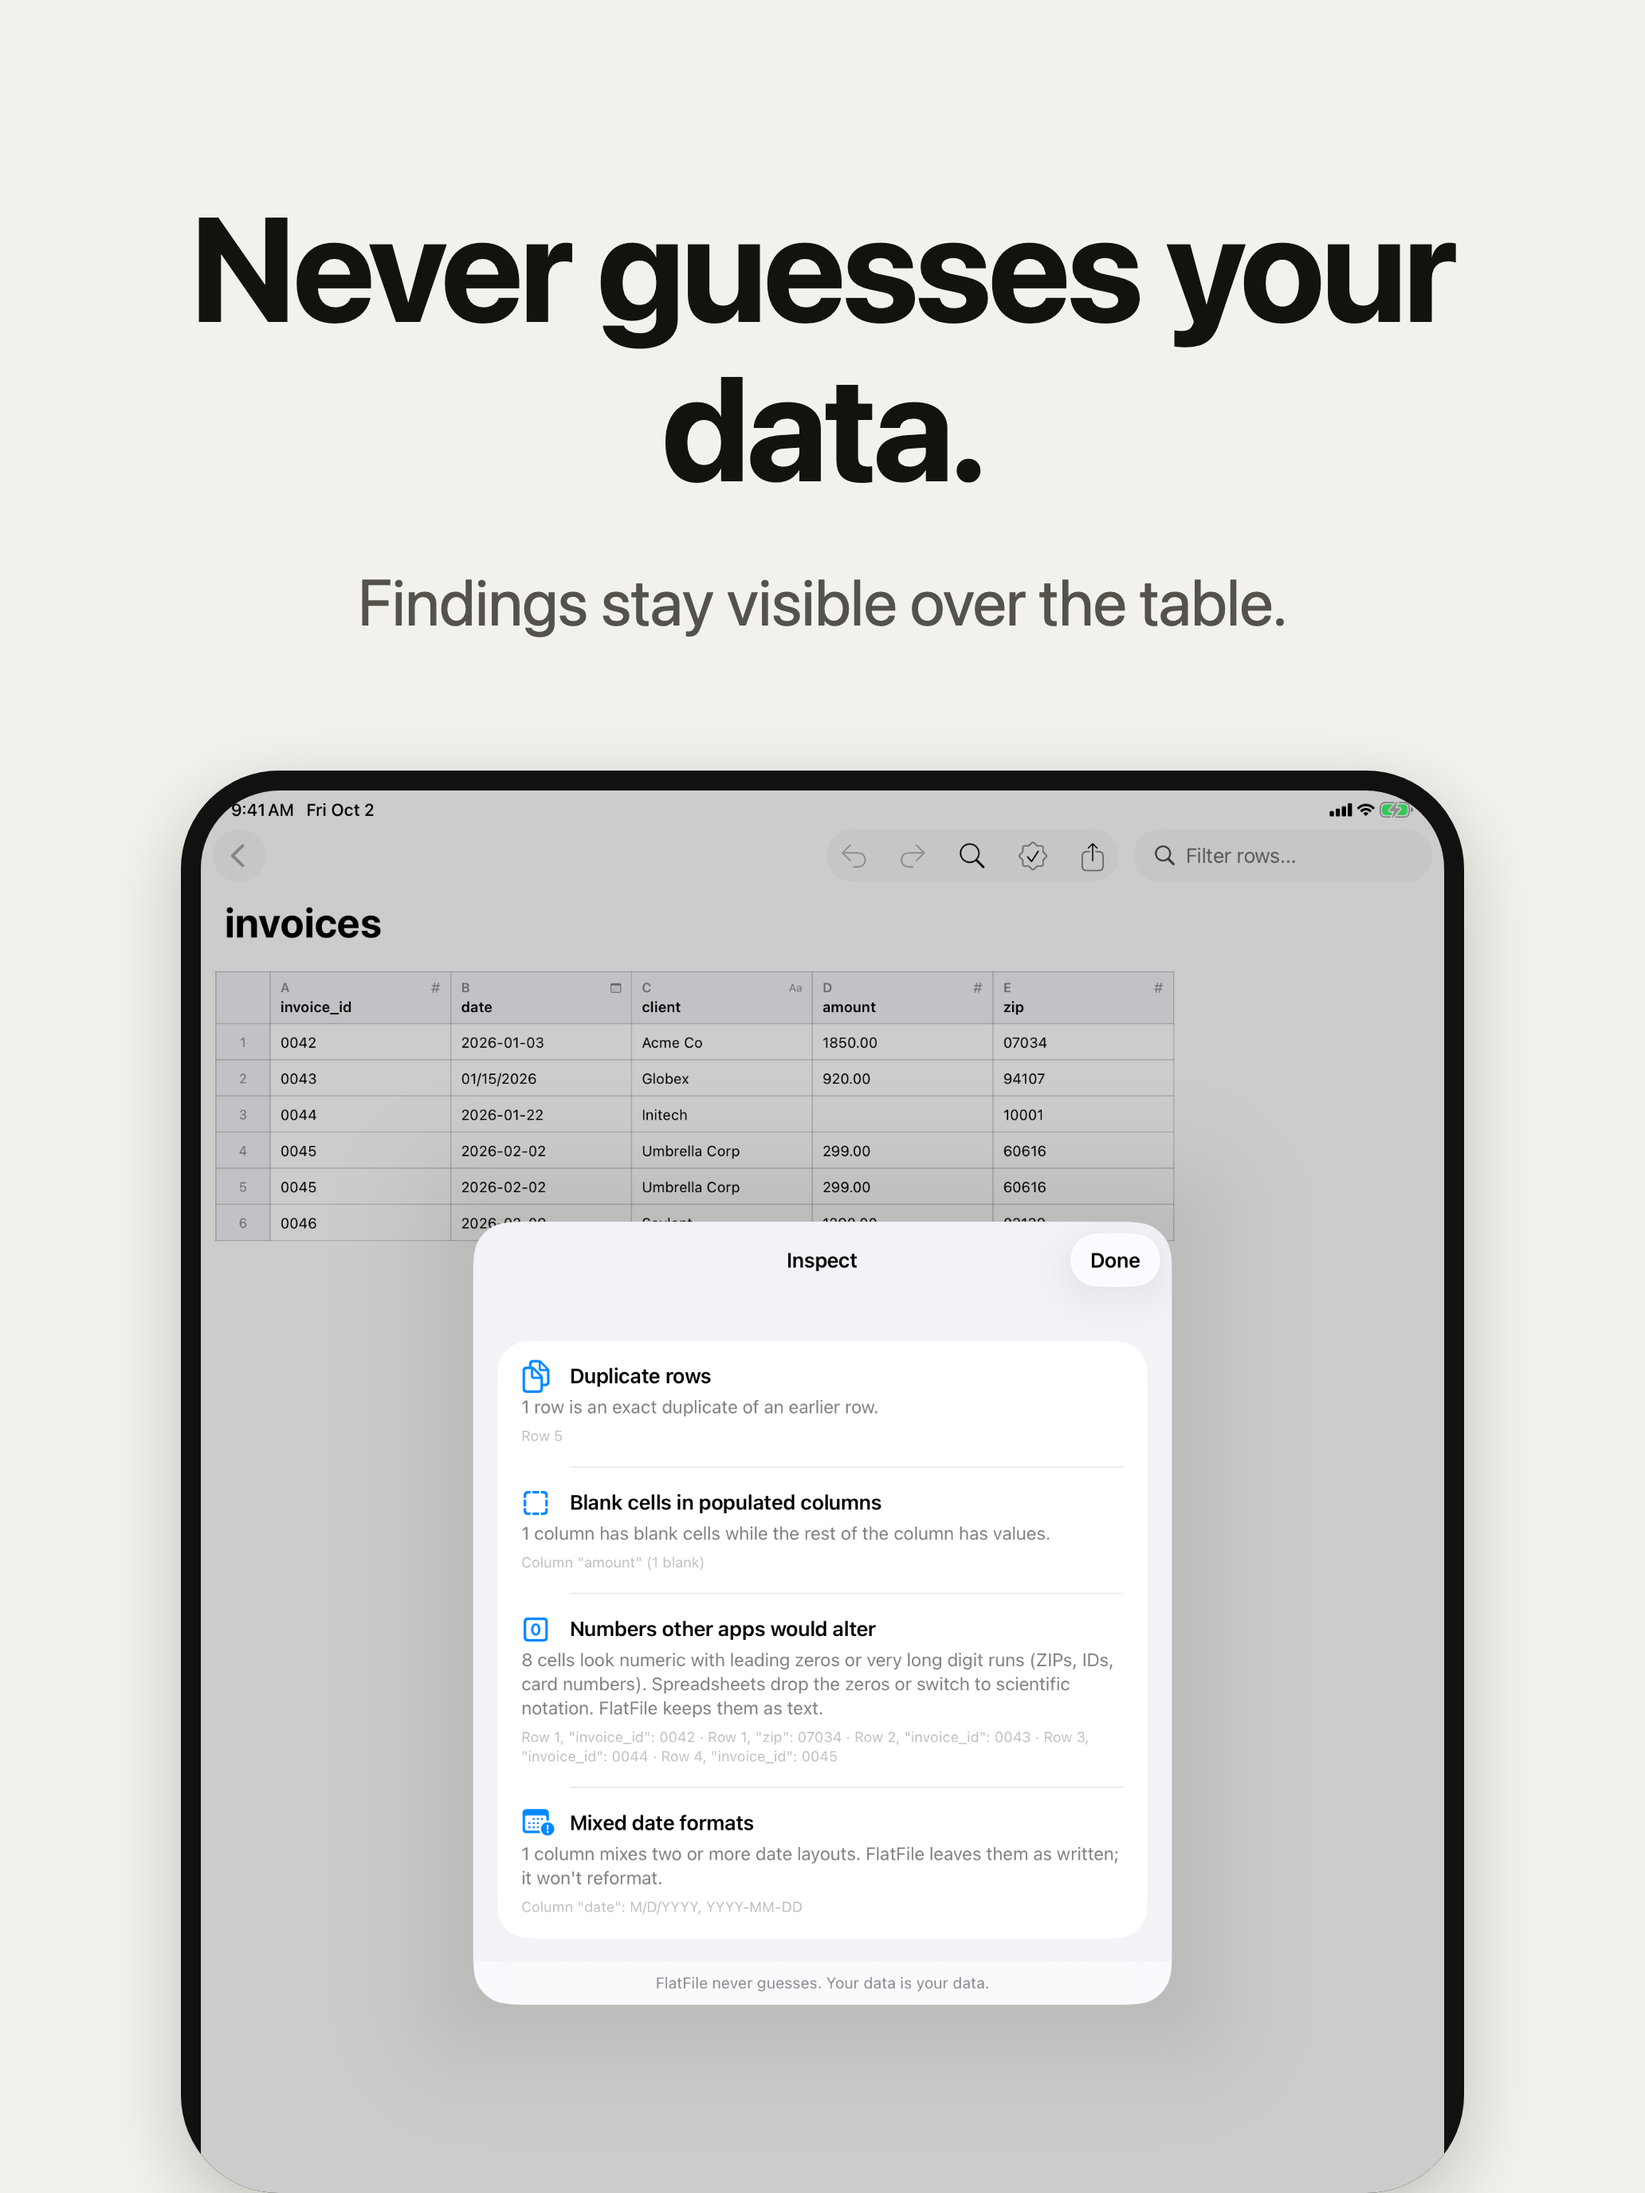
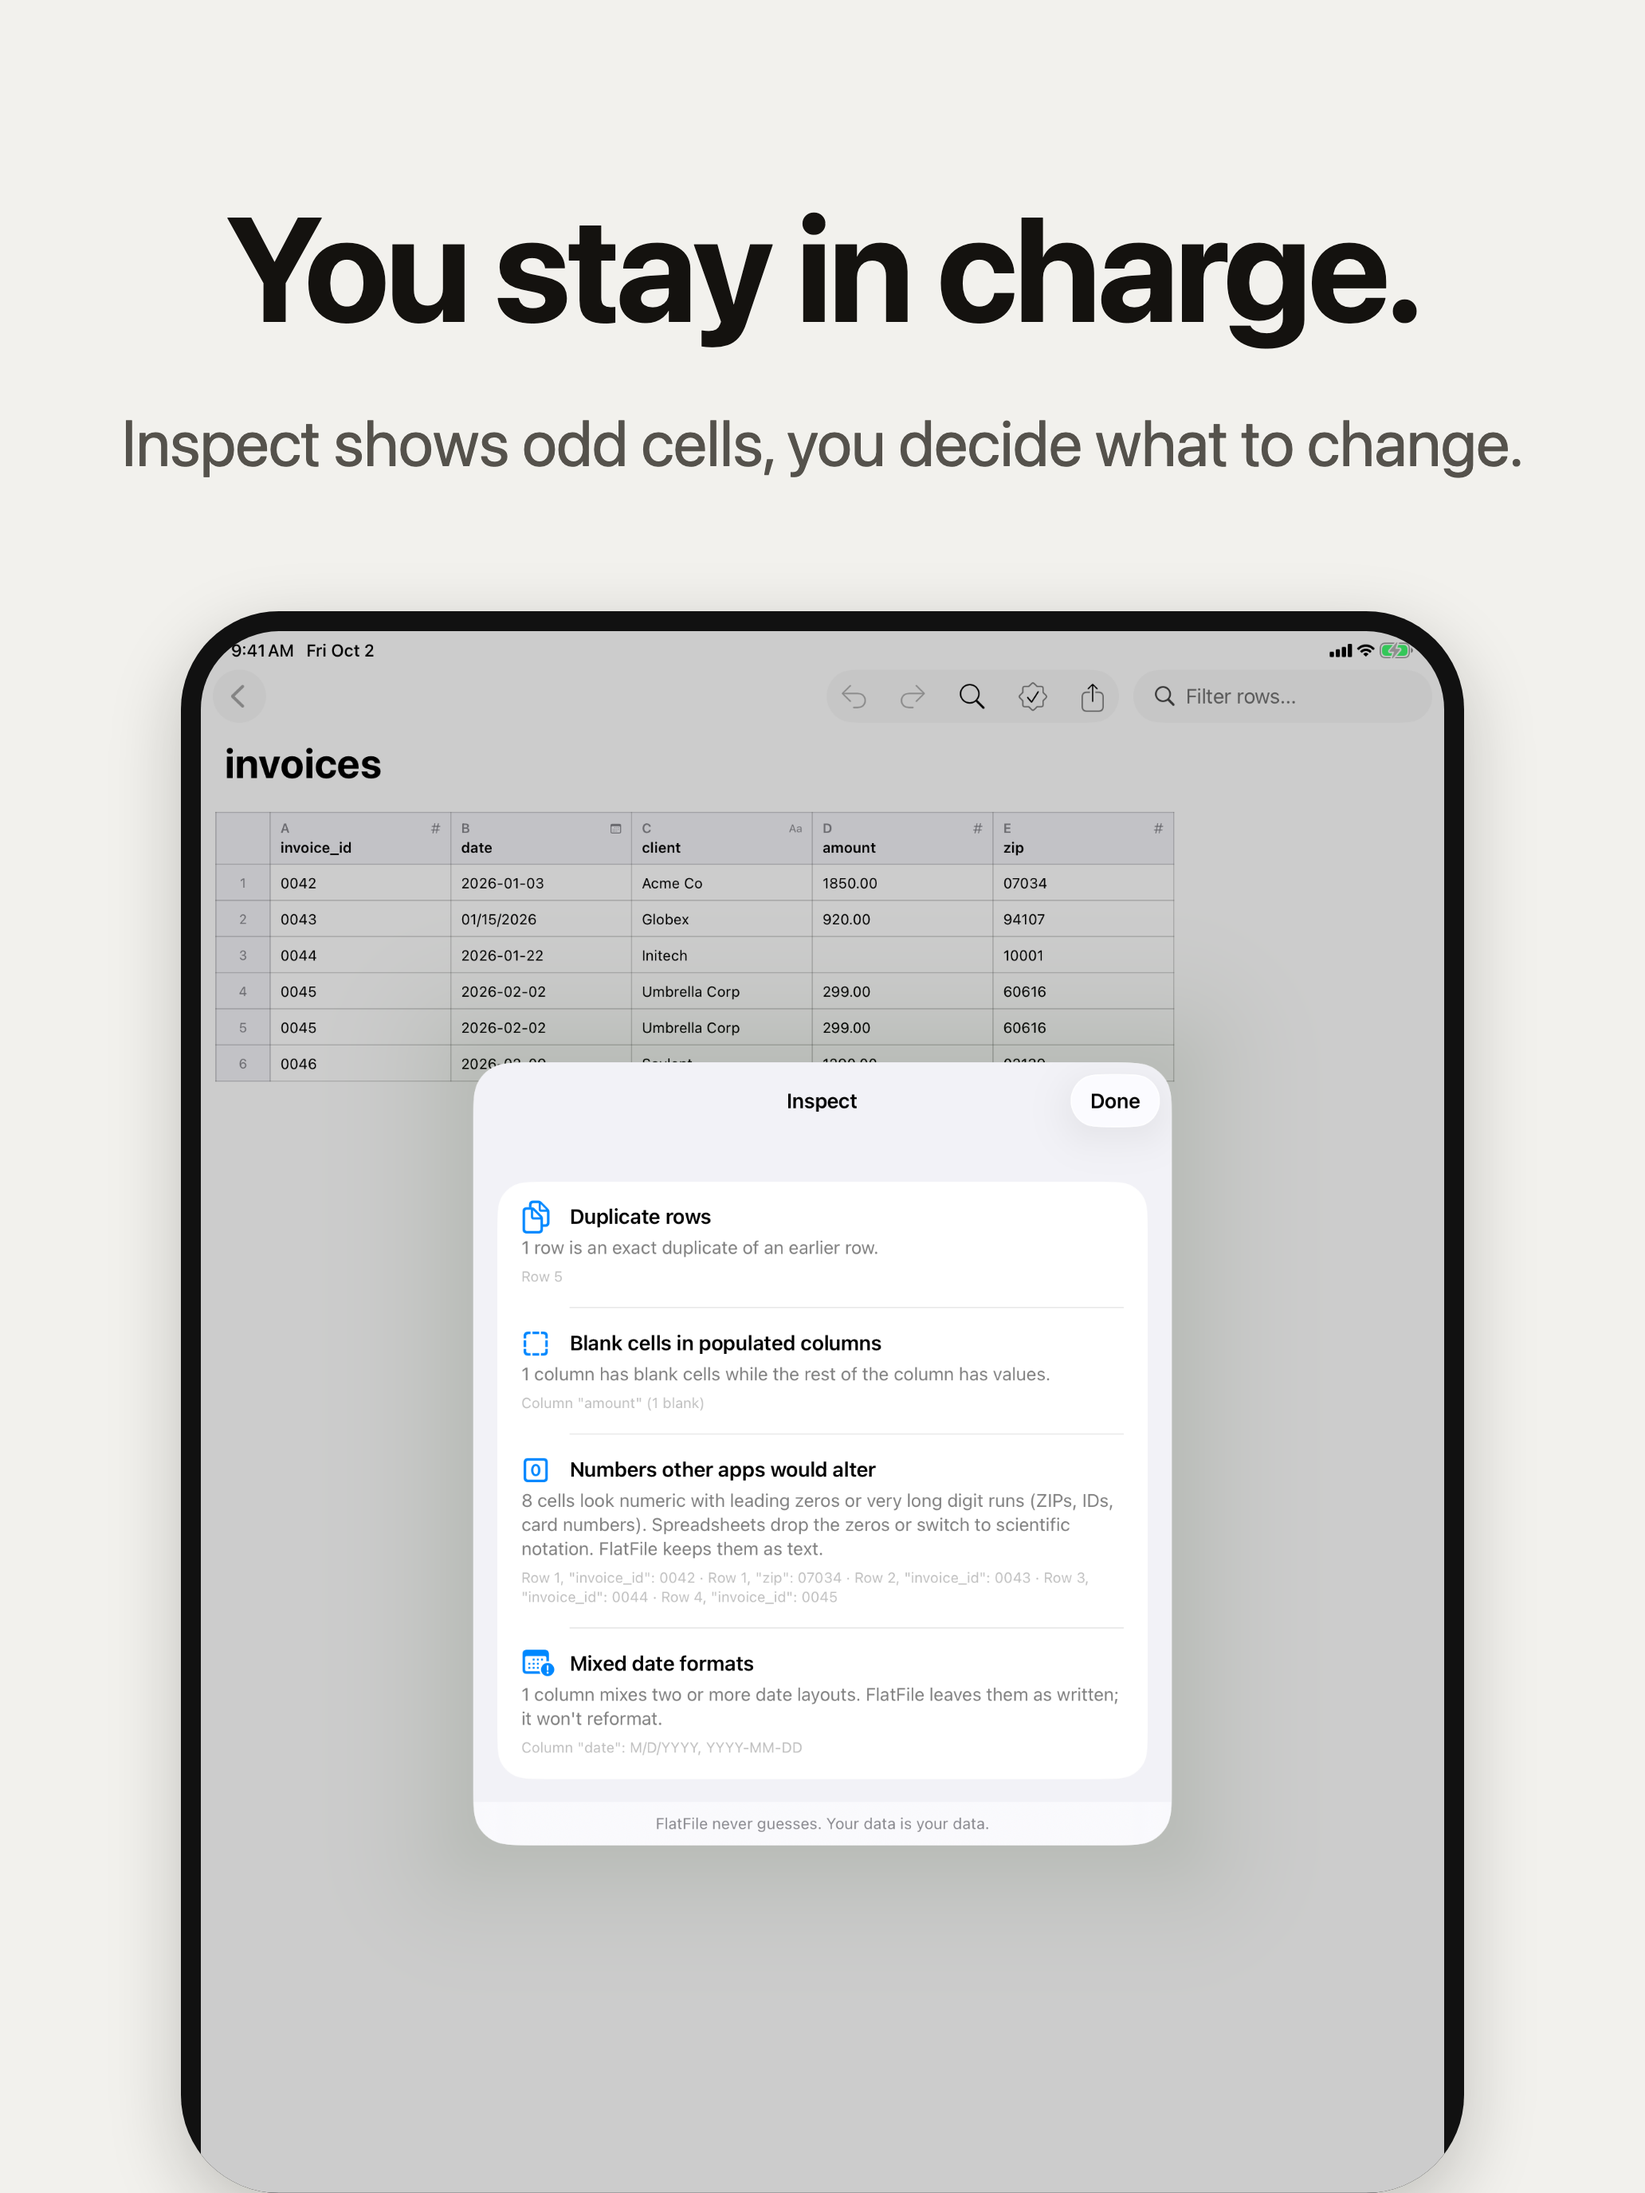
Reframe FlatFile ASC screenshots with v3 + Fancy look
Kate lock Oct 5: iPhone shot 1 is "Fancy look. Forever file."
Remaining iPhone captions and iPad/Mac heroes follow ASC copy v3
(Looks great. Lasts forever. / beautiful grid). METADATA subtitle
updated to v3 A. Warm #F2F1ED FlatNote frame pattern unchanged.
Do not submit for App Review; do not change price/IAP.

Changed region(s): [[0.093, 0.25, 0.8992, 0.9375], [0.062, 0.0938, 0.9302, 0.2188]]

diff --git a/appstore/screenshots/SHOTLIST.md b/appstore/screenshots/SHOTLIST.md
@@ -1,9 +1,10 @@
 # FlatFile — Screenshot Shot List (framed ASC set)
 
-**Status:** framed set ready for Kate / ASC operator upload · **Do not upload from agents**  
+**Status:** framed set v3 + Fancy look (Kate lock Oct 5) · ready for ASC replace · **Do not submit for App Review from agents**  
 **Canvas:** warm paper `#F2F1ED` via `appstore/frame.html` + `mac-frame.html` (FlatNote pattern)  
 **Footer (thesis):** Made for Mom by Kate Benediktsson  
-**Date:** 2026-10-02 PT
+**Copy source:** `/workspace/flat-ship/2026-10-05-FlatFile-ASC-copy-v3.md` + Kate override shot 1 Fancy look  
+**Date:** 2026-10-05 PT
 
 ## Required sizes
 
@@ -16,23 +17,23 @@
 ## Final framed files (upload these)
 
 ### iPhone (`iphone-6.9/`) — 6
-1. `iphone-1-grid.png` — The grid is the .csv.
-2. `iphone-2-templates.png` — Start from something human.
-3. `iphone-3-folder.png` — Your folder. Your files.
-4. `iphone-4-inspect.png` — Never guesses your data.
+1. `iphone-1-grid.png` — Fancy look. Forever file.
+2. `iphone-2-templates.png` — Start simple.
+3. `iphone-3-folder.png` — Your folder, your files.
+4. `iphone-4-inspect.png` — You stay in charge.
 5. `iphone-5-paperclip.png` — Tables next to notes.
-6. `iphone-6-thesis.png` — No account needed.
+6. `iphone-6-thesis.png` — No fee, no lock-in. (+ footer)
 
 ### iPad (`ipad-13/`) — 4
-1. `ipad-1-grid.png`
-2. `ipad-2-templates.png`
-3. `ipad-3-inspect.png`
-4. `ipad-4-paperclip.png`
+1. `ipad-1-grid.png` — Looks great. Lasts forever.
+2. `ipad-2-templates.png` — Start simple.
+3. `ipad-3-inspect.png` — You stay in charge.
+4. `ipad-4-paperclip.png` — Tables next to notes.
 
 ### Mac (`mac/`) — 3
-1. `mac-1-grid.png` — Sidebar + table (derived; live Mac recapture blocked by Screen Recording TCC)
-2. `mac-2-raw.png` — Grid + Raw CSV (existing window capture reframed)
-3. `mac-3-inspect.png` — Inspect
+1. `mac-1-grid.png` — Looks great. Lasts forever.
+2. `mac-2-raw.png` — A beautiful grid for real CSV files.
+3. `mac-3-inspect.png` — You stay in charge.
 
 Raw UI sources live under `screenshots/raw/`. Re-frame with `node appstore/render-frames.mjs`.
 
@@ -41,7 +42,9 @@ Raw UI sources live under `screenshots/raw/`. Re-frame with `node appstore/rende
 DEBUG builds: `demo` · `inspect` · `templates` · `folder` · `paperclip` · `raw`  
 Pass via `SIMCTL_CHILD_FF_SCREENSHOT=<mode>` (sim) or env on Mac.
 
-## Notes / blockers
+## Notes
 
-- Mac live window recapture needs Screen Recording permission for the agent shell — reused prior 1440×900 captures; grid cropped from table+raw for distinct hero.
+- iPhone shot 1 uses Kate's Fancy look override (not v3 recommended "Looks great. Lasts forever.").
+- iPad/Mac heroes use v3 "Looks great. Lasts forever." / beautiful grid.
 - Old unframed `1-table.png` / `2-inspect.png` kept for reference; upload the `iphone-*` / `ipad-*` / `mac-*` names.
+- Do not change app price / IAP without Kate. Do not submit for App Review from this branch alone.

diff --git a/appstore/METADATA.md b/appstore/METADATA.md
@@ -14,7 +14,7 @@ per-version "Distribution" pages (one for iOS, one for macOS).
 ## App Information (set once, applies to all platforms)
 
 - **Name:** FlatFile
-- **Subtitle (max 30):** Plain CSV editor, no lock-in
+- **Subtitle (max 30):** Looks great. Lasts forever.
 - **Primary category:** Productivity
 - **Secondary category:** Utilities
 - **Age rating:** 4+ (no objectionable content)
